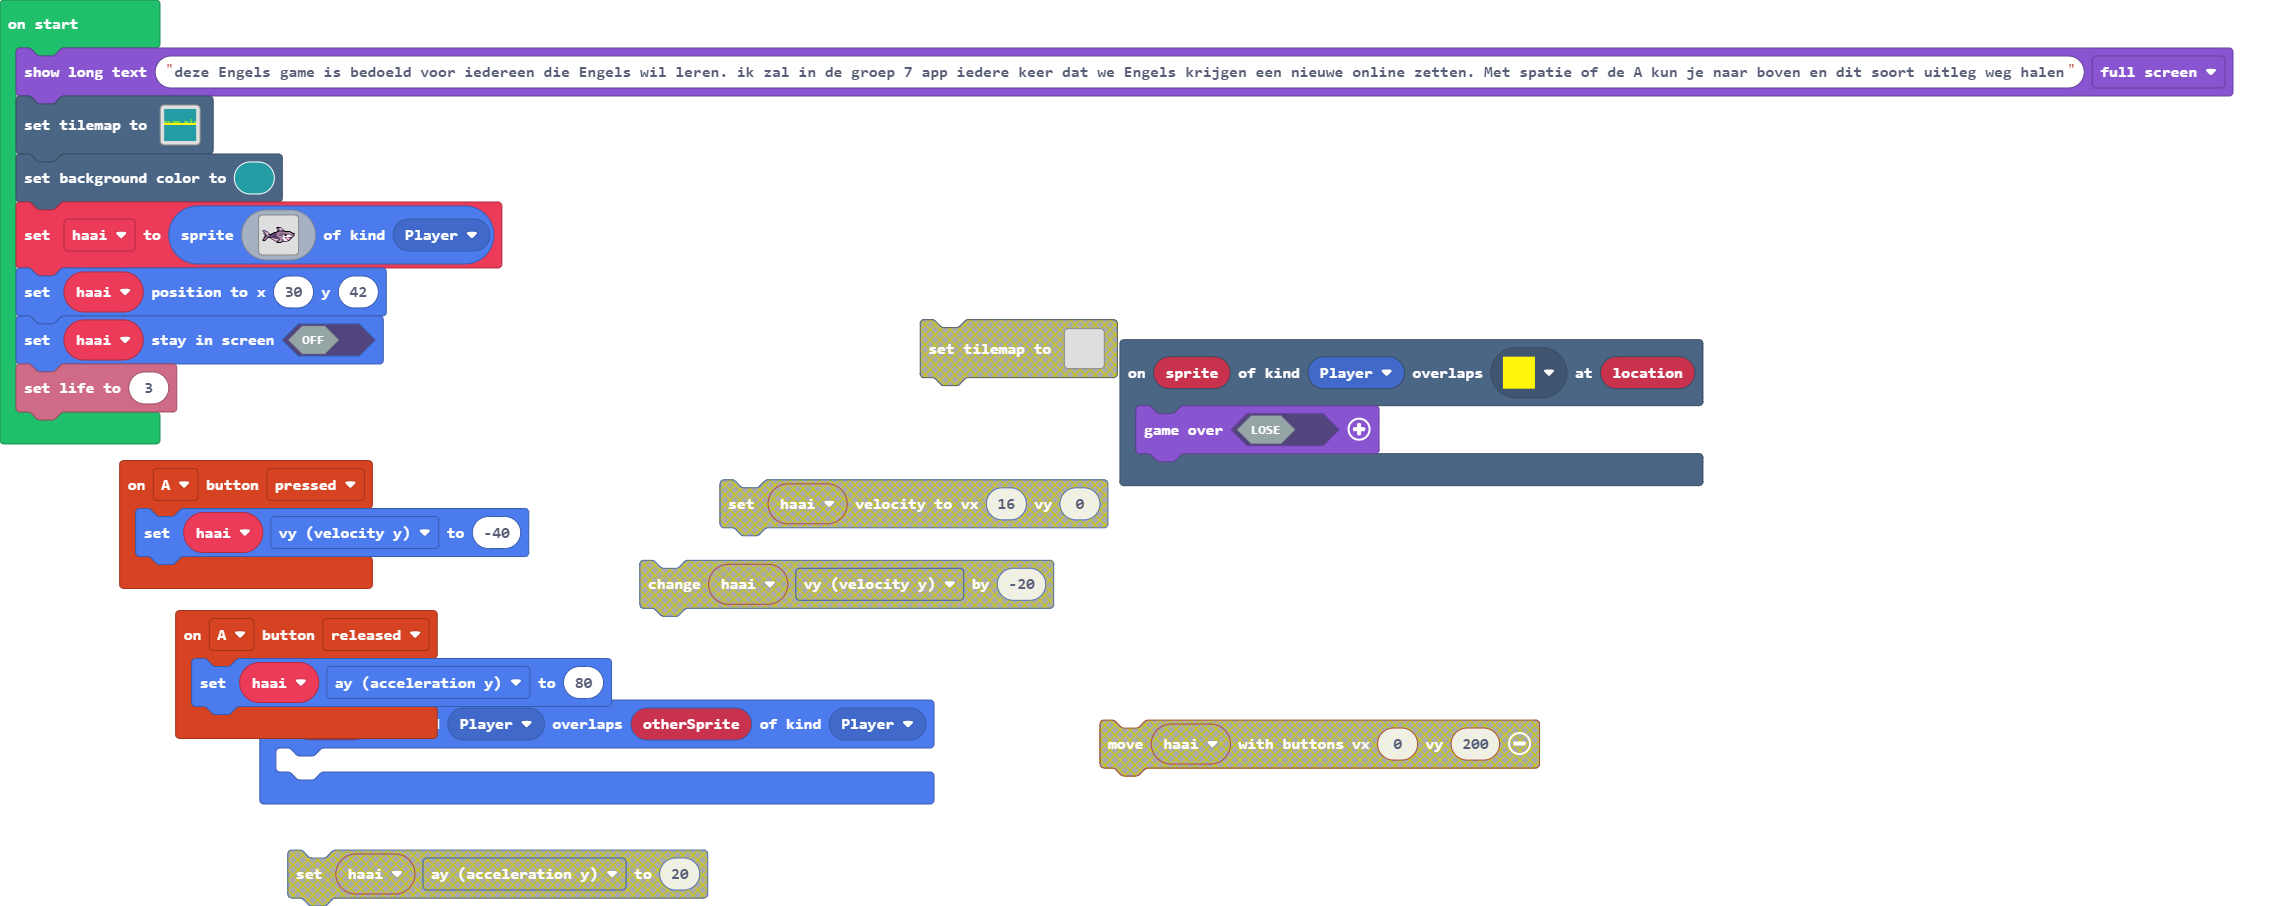
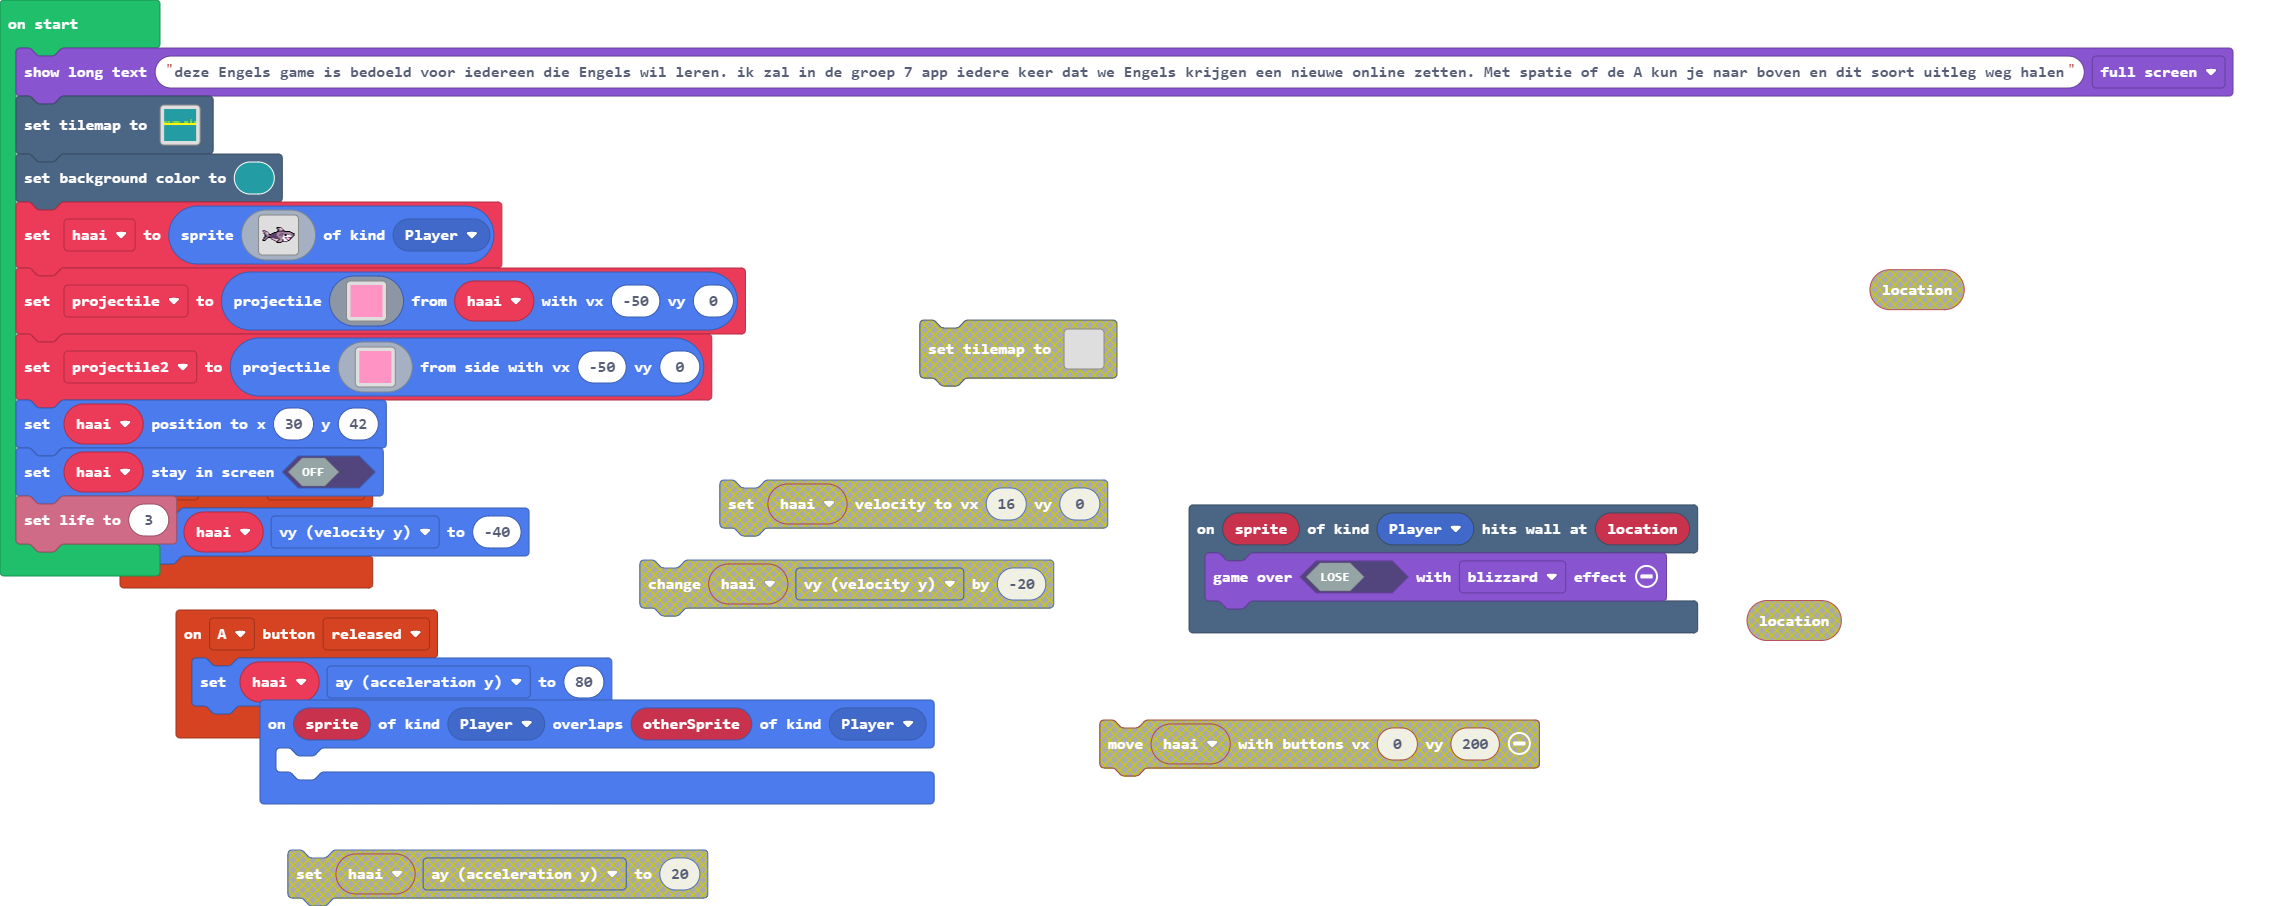
Update main.blocks, main.ts

diff --git a/main.ts b/main.ts
@@ -1,5 +1,5 @@
-scene.onOverlapTile(SpriteKind.Player, assets.tile`myTile`, function (sprite, location) {
-    game.over(false)
+scene.onHitWall(SpriteKind.Player, function (sprite, location) {
+    game.over(false, effects.blizzard)
 })
 controller.A.onEvent(ControllerButtonEvent.Pressed, function () {
     haai.vy = -40
@@ -32,6 +32,42 @@ haai = sprites.create(img`
     .............cfbbdbfccccc.......
     ..............fffff.............
     `, SpriteKind.Player)
+let projectile = sprites.createProjectileFromSprite(img`
+    3 3 3 3 3 3 3 3 3 3 3 3 3 3 3 3 
+    3 3 3 3 3 3 3 3 3 3 3 3 3 3 3 3 
+    3 3 3 3 3 3 3 3 3 3 3 3 3 3 3 3 
+    3 3 3 3 3 3 3 3 3 3 3 3 3 3 3 3 
+    3 3 3 3 3 3 3 3 3 3 3 3 3 3 3 3 
+    3 3 3 3 3 3 3 3 3 3 3 3 3 3 3 3 
+    3 3 3 3 3 3 3 3 3 3 3 3 3 3 3 3 
+    3 3 3 3 3 3 3 3 3 3 3 3 3 3 3 3 
+    3 3 3 3 3 3 3 3 3 3 3 3 3 3 3 3 
+    3 3 3 3 3 3 3 3 3 3 3 3 3 3 3 3 
+    3 3 3 3 3 3 3 3 3 3 3 3 3 3 3 3 
+    3 3 3 3 3 3 3 3 3 3 3 3 3 3 3 3 
+    3 3 3 3 3 3 3 3 3 3 3 3 3 3 3 3 
+    3 3 3 3 3 3 3 3 3 3 3 3 3 3 3 3 
+    3 3 3 3 3 3 3 3 3 3 3 3 3 3 3 3 
+    3 3 3 3 3 3 3 3 3 3 3 3 3 3 3 3 
+    `, haai, -50, 0)
+let projectile2 = sprites.createProjectileFromSide(img`
+    3 3 3 3 3 3 3 3 3 3 3 3 3 3 3 3 
+    3 3 3 3 3 3 3 3 3 3 3 3 3 3 3 3 
+    3 3 3 3 3 3 3 3 3 3 3 3 3 3 3 3 
+    3 3 3 3 3 3 3 3 3 3 3 3 3 3 3 3 
+    3 3 3 3 3 3 3 3 3 3 3 3 3 3 3 3 
+    3 3 3 3 3 3 3 3 3 3 3 3 3 3 3 3 
+    3 3 3 3 3 3 3 3 3 3 3 3 3 3 3 3 
+    3 3 3 3 3 3 3 3 3 3 3 3 3 3 3 3 
+    3 3 3 3 3 3 3 3 3 3 3 3 3 3 3 3 
+    3 3 3 3 3 3 3 3 3 3 3 3 3 3 3 3 
+    3 3 3 3 3 3 3 3 3 3 3 3 3 3 3 3 
+    3 3 3 3 3 3 3 3 3 3 3 3 3 3 3 3 
+    3 3 3 3 3 3 3 3 3 3 3 3 3 3 3 3 
+    3 3 3 3 3 3 3 3 3 3 3 3 3 3 3 3 
+    3 3 3 3 3 3 3 3 3 3 3 3 3 3 3 3 
+    3 3 3 3 3 3 3 3 3 3 3 3 3 3 3 3 
+    `, -50, 0)
 haai.setPosition(30, 42)
 haai.setStayInScreen(false)
 info.setLife(3)
